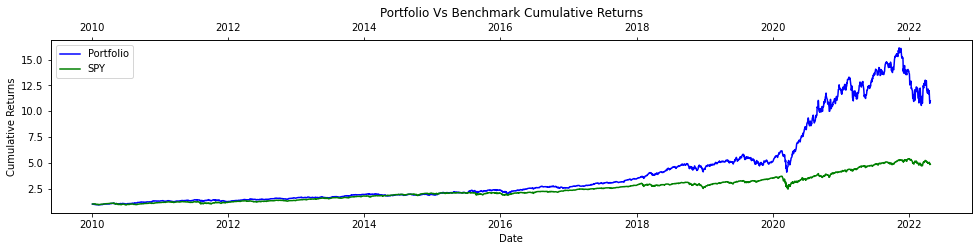
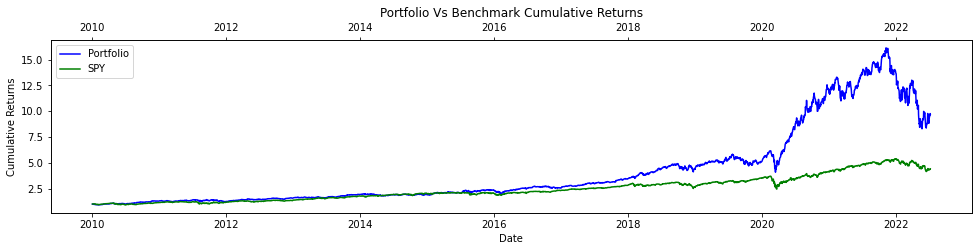
Updated Portfolio stats

diff --git a/index.html b/index.html
@@ -473,10 +473,10 @@
         <p>
           Stay Humble, as the Markets are humbling.
         </p>
-        <h3>US Equities core portfolio VS SPY ~ 2018/10/25 - 2022-04-26</h3>
+        <h3>US Equities core portfolio VS SPY ~ 2018/10/25 - 2022-07-08</h3>
         <amp-img src="images\port_vs_spy_5.png" alt="portfolio VS SPY 1" width="893" height="407" layout="responsive" noloading>
         </amp-img>  
-        <h3>US Equities core portfolio VS SPY ~ 2010/01/01 - 2022-04-26</h3>
+        <h3>US Equities core portfolio VS SPY ~ 2010/01/01 - 2022-07-08</h3>
         <amp-img src="images\port_vs_spy_6.png" alt="portfolio VS SPY 2" width="884" height="406" layout="responsive" noloading>
         </amp-img>
         <!-- hello 
